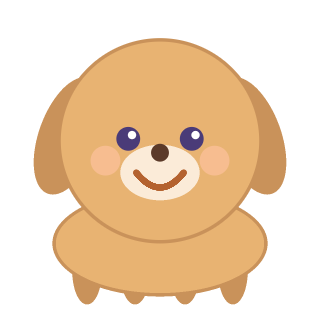
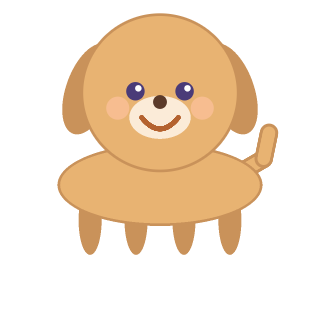
Redesign animal characters for young children

diff --git a/tools/generate-animals.js b/tools/generate-animals.js
@@ -37,22 +37,31 @@ function drawBlush(cv, cx, cy, r, color = '#FFB0C8') {
   fillCircle(cv, cx + r * 0.55, cy + r * 0.2, r * 0.15, color, 0.65);
 }
 
-// A real four-legged animal stance (wide horizontal torso, four legs
-// evenly spaced underneath) rather than the upright two-arm/two-leg body
-// used for the mascot cast (tools/generate-characters.js) - the mascots are
-// guide characters that make sense standing like a person, but the animal
-// roster should look like actual animals (a sheep standing on four legs,
-// not a sheep standing on two). Legs are drawn first so the torso overlaps
-// their tops and only the lower "foot" ends peek out below the body.
+function drawTail(cv, points, outerColor, innerColor, width) {
+  for (let i = 0; i < points.length - 1; i++) {
+    const a = points[i];
+    const b = points[i + 1];
+    strokeLine(cv, a[0], a[1], b[0], b[1], width + 6, outerColor);
+    strokeLine(cv, a[0], a[1], b[0], b[1], width, innerColor);
+  }
+}
+
+// A clear, friendly four-legged animal stance. The head is intentionally
+// smaller than the torso so children can recognise the animal's body,
+// legs, and defining features instead of seeing nine variations of the same
+// oversized face. Legs are drawn first so the torso overlaps their tops and
+// only the lower "foot" ends peek out below the body.
 function drawQuadrupedBody(cv, cx, headCy, headR, bodyColor, outlineColor, footColor) {
-  const neckY = headCy + headR * 0.76;
-  const bodyRx = headR * 1.05;
-  const bodyRy = headR * 0.5;
-  const bodyCy = neckY + bodyRy * 0.55;
+  // Let the head overlap the shoulders. A hard head/body seam makes the
+  // animal look like two stacked balls; this overlap gives it a neck and a
+  // readable chest while keeping the silhouette simple for young children.
+  const bodyRx = headR * 1.30;
+  const bodyRy = headR * 0.50;
+  const bodyCy = headCy + headR * 1.20;
 
   const legRx = headR * 0.15;
-  const legRy = headR * 0.34;
-  const legCy = bodyCy + bodyRy * 0.55;
+  const legRy = headR * 0.45;
+  const legCy = bodyCy + bodyRy * 0.92;
   [-0.7, -0.24, 0.24, 0.7].forEach((fx) => {
     fillEllipse(cv, cx + fx * bodyRx, legCy, legRx, legRy, 0, footColor);
   });
@@ -65,9 +74,10 @@ function drawQuadrupedBody(cv, cx, headCy, headR, bodyColor, outlineColor, footC
 
 function drawDog(size) {
   const cv = makeCanvas(size, size);
-  const cx = size * 0.5, cy = size * 0.44, r = size * 0.31;
+  const cx = size * 0.5, cy = size * 0.29, r = size * 0.24;
   const fur = '#E8B372', outline = '#C9925A', earColor = '#C9925A', snoutColor = '#FBEBD8';
 
+  drawTail(cv, [[cx + r * 0.9, cy + r * 1.12], [cx + r * 1.35, cy + r * 0.86], [cx + r * 1.42, cy + r * 0.52]], outline, fur, r * 0.16);
   drawQuadrupedBody(cv, cx, cy, r, fur, outline, outline);
 
   fillEllipse(cv, cx - r * 0.92, cy - r * 0.05, r * 0.3, r * 0.62, 0.35, earColor);
@@ -86,9 +96,10 @@ function drawDog(size) {
 
 function drawCat(size) {
   const cv = makeCanvas(size, size);
-  const cx = size * 0.5, cy = size * 0.44, r = size * 0.31;
+  const cx = size * 0.5, cy = size * 0.29, r = size * 0.24;
   const fur = '#FFEFD9', outline = '#E9C9A0', patch = '#F4A94F';
 
+  drawTail(cv, [[cx - r * 0.95, cy + r * 1.18], [cx - r * 1.35, cy + r * 0.95], [cx - r * 1.38, cy + r * 0.62]], outline, fur, r * 0.15);
   drawQuadrupedBody(cv, cx, cy, r, fur, outline, outline);
 
   fillPolygon(cv, earTriangle(cx, cy, r, -125, 0.8, 0.62, 0.62), outline);
@@ -118,10 +129,12 @@ function drawCat(size) {
 
 function drawCow(size) {
   const cv = makeCanvas(size, size);
-  const cx = size * 0.5, cy = size * 0.44, r = size * 0.31;
+  const cx = size * 0.5, cy = size * 0.29, r = size * 0.24;
   const fur = '#FDFBF5', outline = '#D8D0C0', patch = '#6B5B4A', snoutColor = '#FFC7D6', hornColor = '#F0E4D0';
 
-  drawQuadrupedBody(cv, cx, cy, r, fur, outline, outline);
+  const body = drawQuadrupedBody(cv, cx, cy, r, fur, outline, outline);
+  fillEllipse(cv, cx - body.bodyRx * 0.62, body.bodyCy, body.bodyRx * 0.28, body.bodyRy * 0.42, -0.2, patch);
+  fillEllipse(cv, cx + body.bodyRx * 0.58, body.bodyCy + body.bodyRy * 0.08, body.bodyRx * 0.24, body.bodyRy * 0.38, 0.15, patch);
 
   fillEllipse(cv, cx - r * 0.4, cy - r * 0.98, r * 0.14, r * 0.24, -0.2, hornColor);
   fillEllipse(cv, cx + r * 0.4, cy - r * 0.98, r * 0.14, r * 0.24, 0.2, hornColor);
@@ -143,12 +156,12 @@ function drawCow(size) {
 
 function drawFrog(size) {
   const cv = makeCanvas(size, size);
-  const cx = size * 0.5, cy = size * 0.46, r = size * 0.31;
+  const cx = size * 0.5, cy = size * 0.31, r = size * 0.24;
   const skin = '#8BC34A', outline = '#5E8F2E', belly = '#DFF3BC';
 
-  drawQuadrupedBody(cv, cx, cy, r, skin, outline, outline);
+  const body = drawQuadrupedBody(cv, cx, cy, r, skin, outline, outline);
+  fillEllipse(cv, cx, body.bodyCy, body.bodyRx * 0.54, body.bodyRy * 0.56, 0, belly);
   fillCircleOutlined(cv, cx, cy, r, skin, outline, r * 0.035);
-  fillEllipse(cv, cx, cy + r * 0.58, r * 0.5, r * 0.3, 0, belly);
 
   // bulging eyes on top of the head
   fillCircleOutlined(cv, cx - r * 0.42, cy - r * 0.78, r * 0.26, skin, outline, r * 0.03);
@@ -165,9 +178,10 @@ function drawFrog(size) {
 
 function drawPig(size) {
   const cv = makeCanvas(size, size);
-  const cx = size * 0.5, cy = size * 0.44, r = size * 0.31;
+  const cx = size * 0.5, cy = size * 0.29, r = size * 0.24;
   const fur = '#FFB3C6', outline = '#E8899E', snoutColor = '#FF8FA8';
 
+  drawTail(cv, [[cx + r * 0.96, cy + r * 1.16], [cx + r * 1.34, cy + r * 1.12], [cx + r * 1.23, cy + r * 0.86], [cx + r * 1.05, cy + r * 0.98]], outline, fur, r * 0.13);
   drawQuadrupedBody(cv, cx, cy, r, fur, outline, outline);
 
   fillPolygon(cv, earTriangle(cx, cy, r, -120, 0.75, 0.42, 0.4), outline);
@@ -187,10 +201,12 @@ function drawPig(size) {
 
 function drawChicken(size) {
   const cv = makeCanvas(size, size);
-  const cx = size * 0.5, cy = size * 0.44, r = size * 0.31;
+  const cx = size * 0.5, cy = size * 0.29, r = size * 0.24;
   const feather = '#FFF6E6', outline = '#E8DCC0', comb = '#FF6B5B', beak = '#F4A94F';
 
-  drawQuadrupedBody(cv, cx, cy, r, feather, outline, beak);
+  const body = drawQuadrupedBody(cv, cx, cy, r, feather, outline, beak);
+  fillEllipse(cv, cx - body.bodyRx * 0.72, body.bodyCy - body.bodyRy * 0.05, body.bodyRx * 0.3, body.bodyRy * 0.58, -0.35, outline);
+  fillEllipse(cv, cx + body.bodyRx * 0.72, body.bodyCy - body.bodyRy * 0.05, body.bodyRx * 0.3, body.bodyRy * 0.58, 0.35, outline);
 
   [-1, 0, 1].forEach((i) => fillCircle(cv, cx + i * r * 0.16, cy - r * 1.02, r * 0.18, comb));
   fillCircleOutlined(cv, cx, cy, r, feather, outline, r * 0.035);
@@ -204,9 +220,11 @@ function drawChicken(size) {
 
 function drawLion(size) {
   const cv = makeCanvas(size, size);
-  const cx = size * 0.5, cy = size * 0.44, r = size * 0.31;
+  const cx = size * 0.5, cy = size * 0.29, r = size * 0.24;
   const fur = '#F2B84B', outline = '#D89A2E', mane = '#E08A2E', snoutColor = '#FBEBD8';
 
+  drawTail(cv, [[cx + r * 0.9, cy + r * 1.18], [cx + r * 1.38, cy + r * 1.02], [cx + r * 1.46, cy + r * 0.68]], outline, fur, r * 0.15);
+  fillCircle(cv, cx + r * 1.46, cy + r * 0.62, r * 0.22, mane);
   drawQuadrupedBody(cv, cx, cy, r, fur, outline, outline);
 
   const maneCount = 14;
@@ -229,9 +247,10 @@ function drawLion(size) {
 
 function drawElephant(size) {
   const cv = makeCanvas(size, size);
-  const cx = size * 0.5, cy = size * 0.44, r = size * 0.31;
+  const cx = size * 0.5, cy = size * 0.29, r = size * 0.24;
   const fur = '#C3CAD3', outline = '#9AA5B0';
 
+  drawTail(cv, [[cx - r * 0.96, cy + r * 1.12], [cx - r * 1.32, cy + r * 1.2], [cx - r * 1.42, cy + r * 1.02]], outline, fur, r * 0.1);
   drawQuadrupedBody(cv, cx, cy, r, fur, outline, outline);
 
   fillEllipse(cv, cx - r * 1.0, cy - r * 0.08, r * 0.48, r * 0.6, 0.12, outline);
@@ -256,10 +275,14 @@ function drawElephant(size) {
 
 function drawSheep(size) {
   const cv = makeCanvas(size, size);
-  const cx = size * 0.5, cy = size * 0.44, r = size * 0.31;
+  const cx = size * 0.5, cy = size * 0.29, r = size * 0.24;
   const wool = '#FDFBF5', woolOutline = '#E4DED0', face = '#8D7B6B', faceOutline = '#6E5E50';
 
-  drawQuadrupedBody(cv, cx, cy, r, wool, woolOutline, faceOutline);
+  const body = drawQuadrupedBody(cv, cx, cy, r, wool, woolOutline, faceOutline);
+  for (let i = 0; i < 7; i++) {
+    const a = Math.PI * (0.15 + i / 7 * 0.7);
+    fillCircle(cv, cx + Math.cos(a) * body.bodyRx * 0.88, body.bodyCy + Math.sin(a) * body.bodyRy * 0.84, r * 0.22, wool);
+  }
 
   const woolCount = 10;
   for (let i = 0; i < woolCount; i++) {

diff --git a/games/animal-sounds/script.js b/games/animal-sounds/script.js
@@ -2,15 +2,15 @@
   KidsApp.initCommon();
 
   const ANIMALS = [
-    { img: '../../icons/animals/dog.png', sound: 'わんわん！', sfx: 'dog', color: 'var(--orange)' },
-    { img: '../../icons/animals/cat.png', sound: 'にゃーん！', sfx: 'cat', color: 'var(--pink)' },
-    { img: '../../icons/animals/cow.png', sound: 'もーう！', sfx: 'cow', color: 'var(--purple)' },
-    { img: '../../icons/animals/frog.png', sound: 'げこげこ！', sfx: 'frog', color: 'var(--green)' },
-    { img: '../../icons/animals/pig.png', sound: 'ぶーぶー！', sfx: 'pig', color: 'var(--coral)' },
-    { img: '../../icons/animals/chicken.png', sound: 'こけこっこー！', sfx: 'chicken', color: 'var(--yellow)' },
-    { img: '../../icons/animals/lion.png', sound: 'がおー！', sfx: 'lion', color: 'var(--blue)' },
-    { img: '../../icons/animals/elephant.png', sound: 'ぱおーん！', sfx: 'elephant', color: 'var(--teal)' },
-    { img: '../../icons/animals/sheep.png', sound: 'めーめー！', sfx: 'sheep', color: 'var(--pink)' },
+    { img: '../../icons/animals/dog.png', name: 'いぬ', sound: 'わんわん！', sfx: 'dog', color: 'var(--orange)' },
+    { img: '../../icons/animals/cat.png', name: 'ねこ', sound: 'にゃーん！', sfx: 'cat', color: 'var(--pink)' },
+    { img: '../../icons/animals/cow.png', name: 'うし', sound: 'もーう！', sfx: 'cow', color: 'var(--purple)' },
+    { img: '../../icons/animals/frog.png', name: 'かえる', sound: 'げこげこ！', sfx: 'frog', color: 'var(--green)' },
+    { img: '../../icons/animals/pig.png', name: 'ぶた', sound: 'ぶーぶー！', sfx: 'pig', color: 'var(--coral)' },
+    { img: '../../icons/animals/chicken.png', name: 'にわとり', sound: 'こけこっこー！', sfx: 'chicken', color: 'var(--yellow)' },
+    { img: '../../icons/animals/lion.png', name: 'らいおん', sound: 'がおー！', sfx: 'lion', color: 'var(--blue)' },
+    { img: '../../icons/animals/elephant.png', name: 'ぞう', sound: 'ぱおーん！', sfx: 'elephant', color: 'var(--teal)' },
+    { img: '../../icons/animals/sheep.png', name: 'ひつじ', sound: 'めーめー！', sfx: 'sheep', color: 'var(--pink)' },
   ];
 
   const grid = document.getElementById('grid');
@@ -20,7 +20,7 @@
     card.className = 'animal-card';
     card.style.setProperty('--card-color', a.color);
     card.innerHTML = `<img class="animal-card__img" src="${a.img}" alt="">`;
-    card.setAttribute('aria-label', a.sound);
+    card.setAttribute('aria-label', `${a.name}、${a.sound}`);
     card.addEventListener('pointerdown', () => {
       card.classList.remove('bounce');
       // restart animation

diff --git a/tools/generate-characters.js b/tools/generate-characters.js
@@ -22,18 +22,14 @@ function fillCircleOutlined(cv, cx, cy, r, fillColor, outlineColor, outlineWidth
   fillCircle(cv, cx, cy, r, fillColor);
 }
 
-// A small standing body drawn beneath the head so every mascot reads as a
-// full character instead of some being face-only portraits and others
-// (like the pet-friends animals) having bodies. Kept subordinate to the
-// head - close to the original head-only proportions - rather than a big
-// "chibi" torso, per feedback that an equally-prominent body read as too
-// deformed/toy-like. Drawn before the head/ears/face so the head naturally
-// overlaps and hides the neck seam.
+// A friendly standing body drawn beneath the head. The body is large enough
+// to read as a real character at small sizes, while the head remains the
+// visual focus for toddlers. It is drawn first so the head overlaps the
+// shoulders instead of looking like two stacked circles.
 function drawStandingBody(cv, cx, headCy, headR, bodyColor, outlineColor, footColor) {
-  const neckY = headCy + headR * 0.8;
-  const bodyRx = headR * 0.68;
-  const bodyRy = headR * 0.5;
-  const bodyCy = neckY + bodyRy * 0.55;
+  const bodyRx = headR * 0.84;
+  const bodyRy = headR * 0.62;
+  const bodyCy = headCy + headR * 1.16;
 
   fillEllipse(cv, cx - bodyRx * 0.5, bodyCy + bodyRy * 0.86, headR * 0.24, headR * 0.15, 0.08, footColor);
   fillEllipse(cv, cx + bodyRx * 0.5, bodyCy + bodyRy * 0.86, headR * 0.24, headR * 0.15, -0.08, footColor);
@@ -61,7 +57,7 @@ function drawFace(cv, cx, cy, r, { blush = '#FFB0C8', mouth = '#FF6FA5' } = {}) 
 
 function drawBear(size) {
   const cv = makeCanvas(size, size);
-  const cx = size * 0.5, cy = size * 0.44, r = size * 0.31;
+  const cx = size * 0.5, cy = size * 0.31, r = size * 0.27;
   const fur = '#E3A76F';
   const furDark = '#C98B57';
   const outline = '#B87A45';
@@ -88,7 +84,7 @@ function drawBear(size) {
 
 function drawCat(size) {
   const cv = makeCanvas(size, size);
-  const cx = size * 0.5, cy = size * 0.44, r = size * 0.31;
+  const cx = size * 0.5, cy = size * 0.31, r = size * 0.27;
   const fur = '#FFEFD9';
   const outline = '#E9C9A0';
   const patch = '#F4A94F';
@@ -137,7 +133,7 @@ function drawCat(size) {
 
 function drawRabbit(size) {
   const cv = makeCanvas(size, size);
-  const cx = size * 0.5, cy = size * 0.44, r = size * 0.31;
+  const cx = size * 0.5, cy = size * 0.31, r = size * 0.27;
   const fur = '#FFF8FA';
   const outline = '#F3C9D8';
   const inner = '#FFC2D6';

diff --git a/games/animal-quiz/script.js b/games/animal-quiz/script.js
@@ -41,7 +41,8 @@
     options.forEach((animal) => {
       const card = document.createElement('button');
       card.className = 'option-card';
-      card.innerHTML = `<img class="option-card__img" src="${animal.img}" alt="">`;
+      card.innerHTML = `<img class="option-card__img" src="${animal.img}" alt="${animal.name}">`;
+      card.setAttribute('aria-label', animal.name);
       card.addEventListener('pointerdown', () => onPick(animal, card));
       optionsEl.appendChild(card);
     });

diff --git a/sw.js b/sw.js
@@ -2,7 +2,7 @@
 // (the whole point: this app is meant to be used out and about).
 // Paths are relative to this file's own location, so it works whether the
 // site is hosted at a domain root or a GitHub Pages project subpath.
-const CACHE_VERSION = 'v28';
+const CACHE_VERSION = 'v29';
 const CACHE_NAME = `asobibako-${CACHE_VERSION}`;
 
 const PRECACHE_URLS = [

diff --git a/games/animal-sounds/index.html b/games/animal-sounds/index.html
@@ -34,8 +34,8 @@
     border: 5px solid var(--card-color, var(--pink));
   }
   .animal-card__img {
-    width: min(13vw, 13vh);
-    height: min(13vw, 13vh);
+    width: min(18vw, 18vh);
+    height: min(18vw, 18vh);
     object-fit: contain;
   }
   .animal-card.bounce { animation: animal-bounce 500ms ease-out; }
